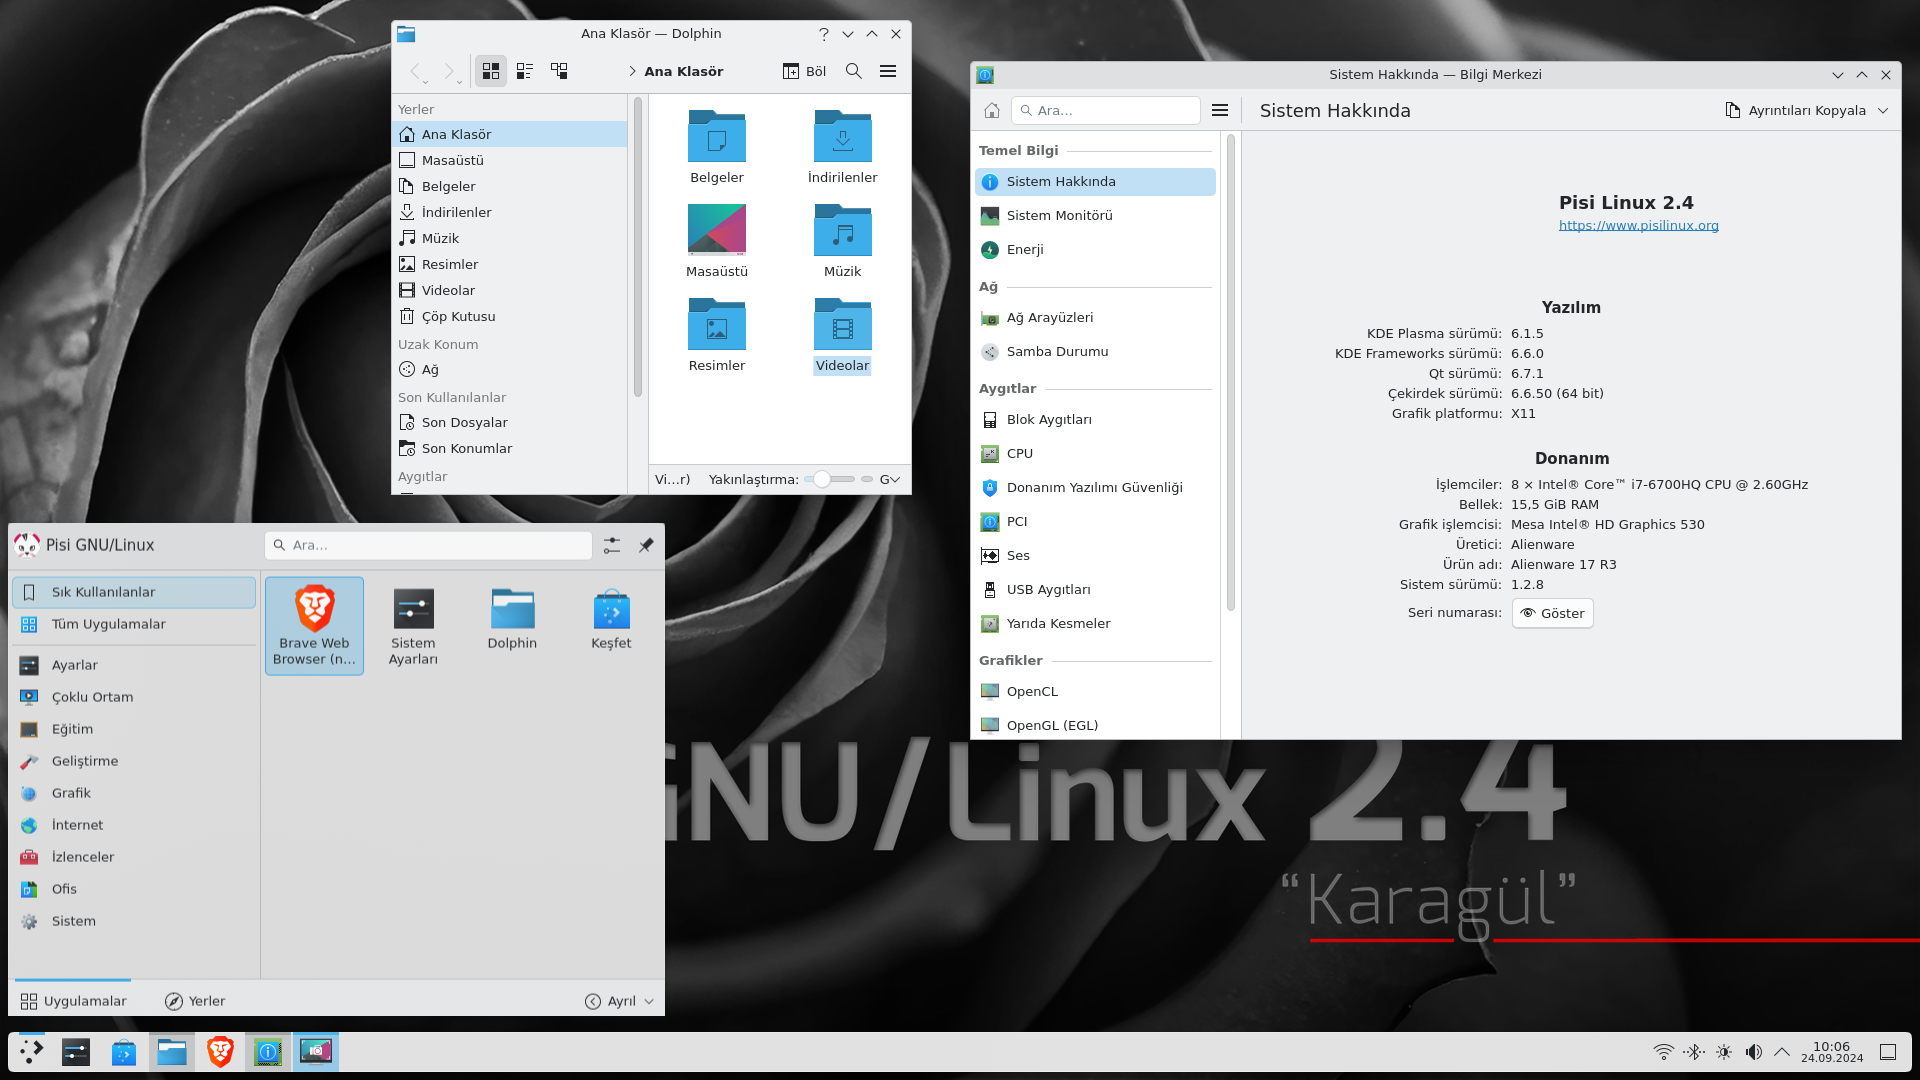
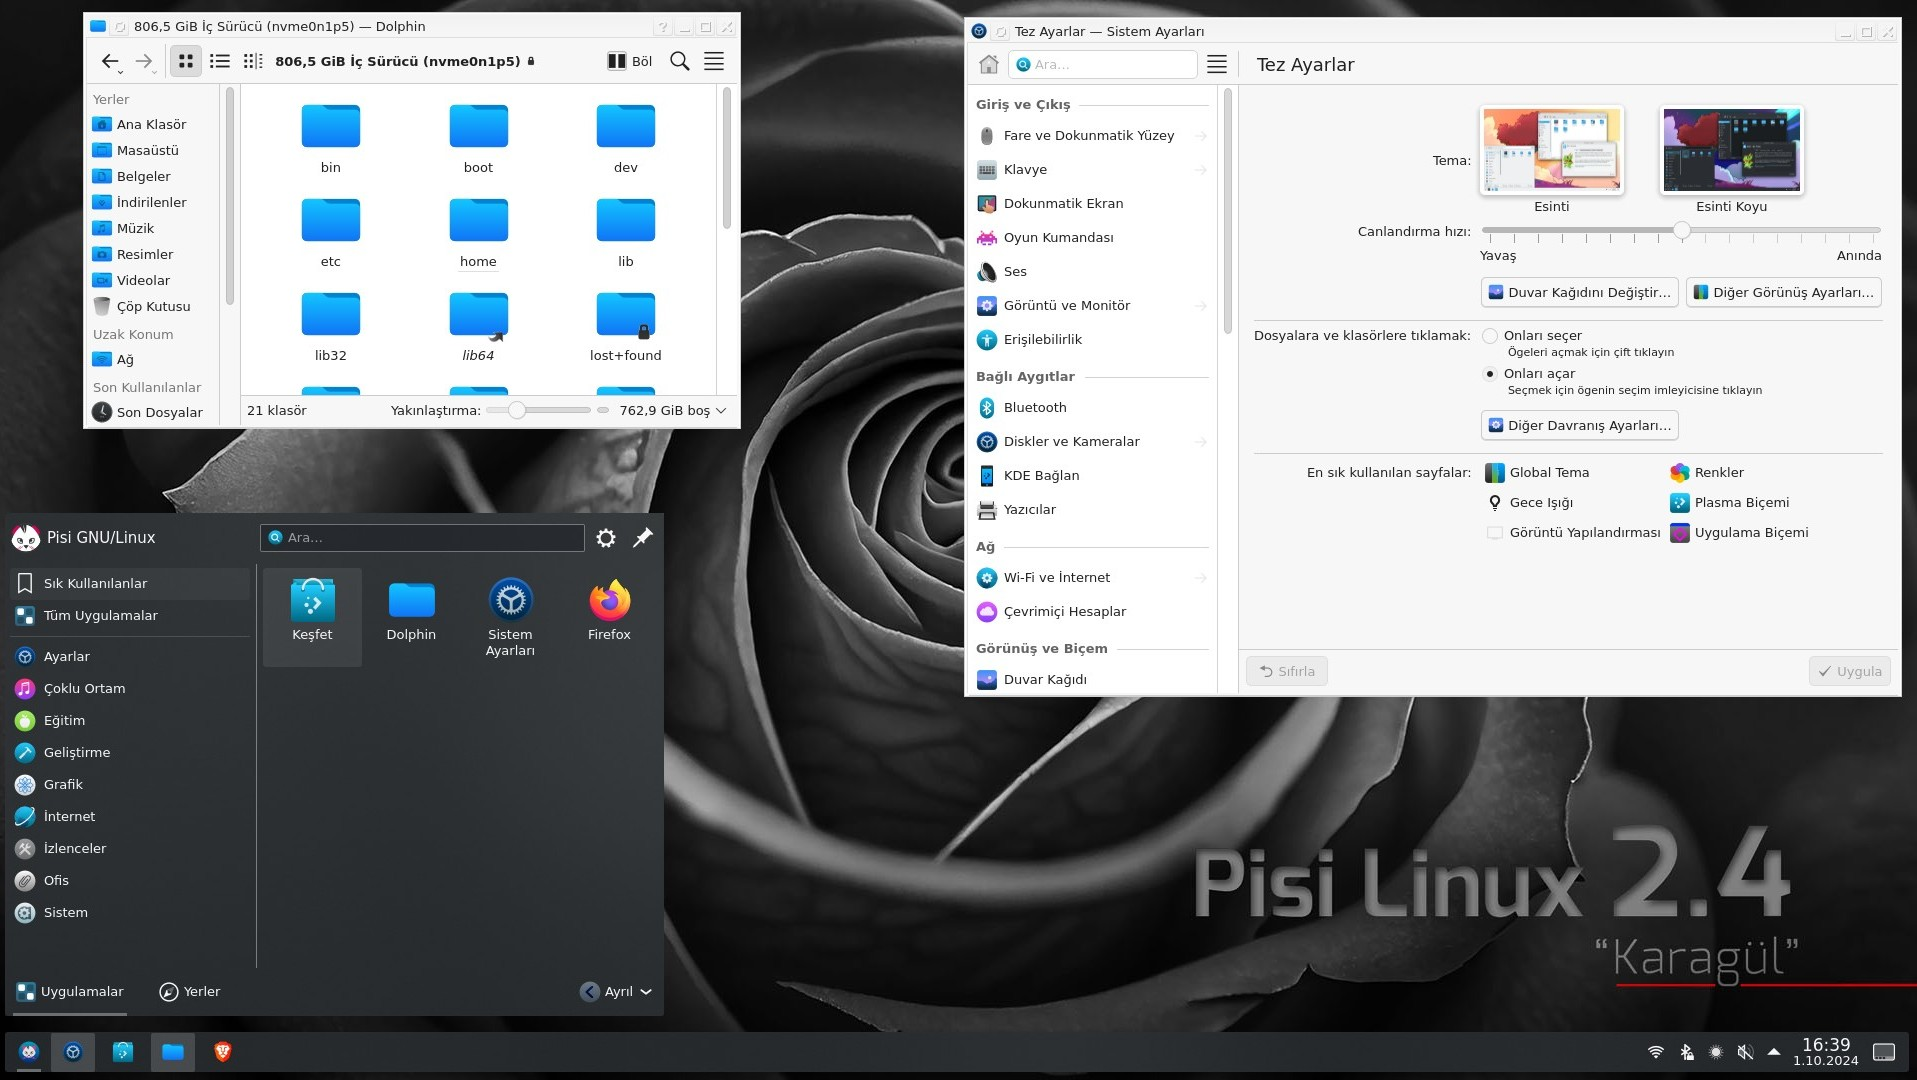
splash ve  pencere dekorasyon dosyaları değişti
splash değişti ve pencere dekarosyonu breeze olarak ayarlandı

diff --git a/lookandfeel/contents/splash/Splash.qml b/lookandfeel/contents/splash/Splash.qml
@@ -2,59 +2,35 @@ import QtQuick 2.15
 
 Image {
     id: root
-    source: "images/background.png"
-    fillMode: Image.PreserveAspectCrop
 
     property real stage: 0
 
+    source: "images/background.png"
+    fillMode: Image.PreserveAspectCrop
     onStageChanged: {
-        if (stage == 1) {
+        if (stage == 1)
             introAnimation.running = true;
-        }
-    }
 
-    RotationAnimator {
-        id: gearRotation
-        target: gear
-        from: 0
-        to: 360
-        loops: Animation.Infinite
-        duration: 5000
-        running: true
     }
 
     Image {
         id: gear
-        source: "images/gear2.svg"
+        AnimatedImage{
+            id: animation;
+            source: "images/pisi.gif"
+
+        }
         width: 100
         height: 100
+        transformOrigin: Item.Center
+
         anchors {
             horizontalCenter: parent.horizontalCenter
             bottom: parent.bottom
             bottomMargin: 50
         }
-
-        transformOrigin: Item.Center
-        transform: Rotation {
-            origin.x: gear.width / 2
-            origin.y: gear.height / 2
-            angle: -360 * stage / 6 
-        }
+        
     }
 
-    SequentialAnimation {
-        id: introAnimation
-        running: false
 
-        ParallelAnimation {
-            PropertyAnimation {
-                property: "stage"
-                target: root
-                to: 6
-                duration: 1000
-                easing.type: Easing.InOutBack
-                easing.overshoot: 1.0
-            }
-        }
-    }
 }
